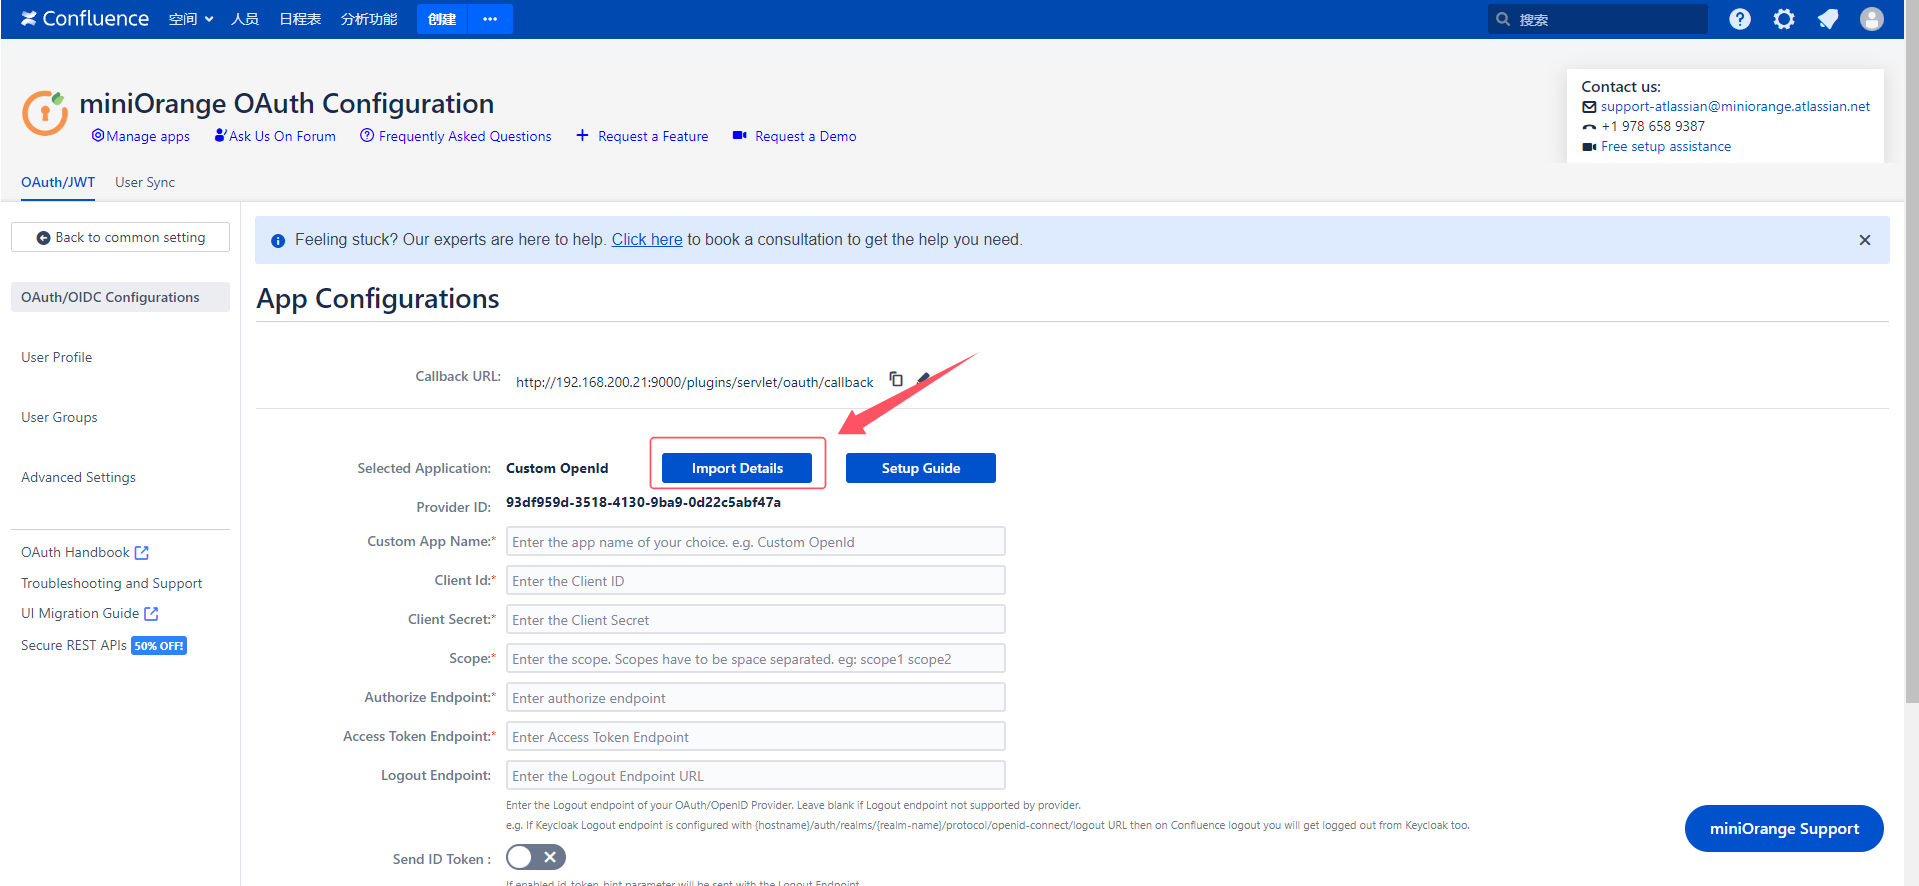
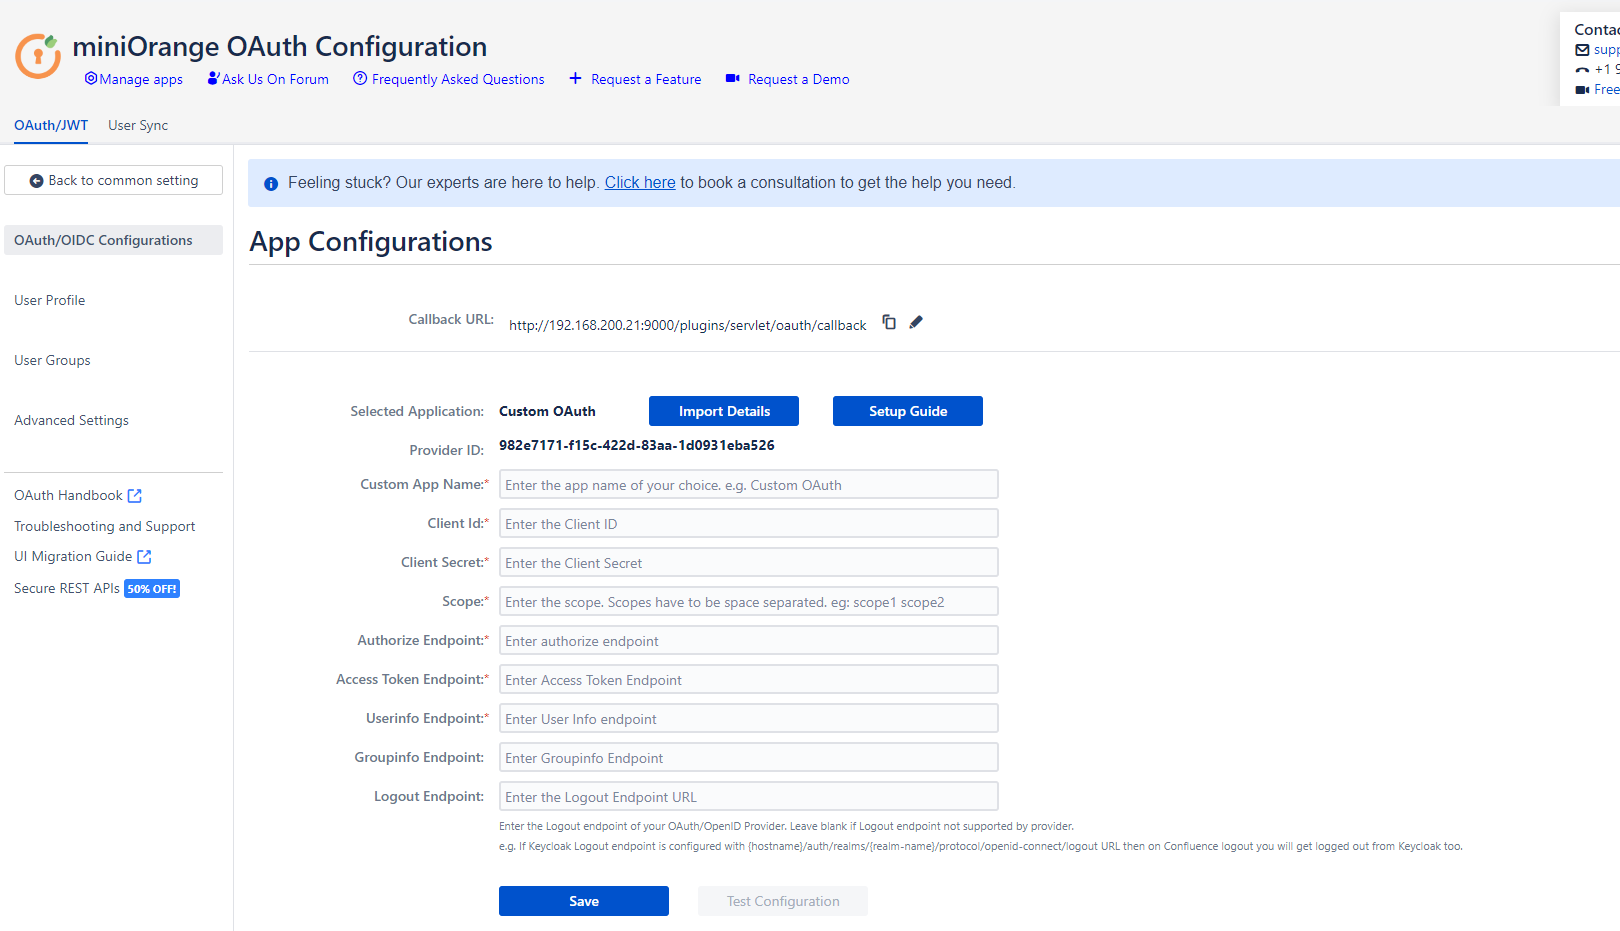
update：更新SSO登录相关文档

diff --git a/deploy/sso_example/confluence.md b/deploy/sso_example/confluence.md
@@ -16,19 +16,23 @@
 3. **应用配置**：登录到Confluence并点击右上角齿轮进入【管理应用】，点击左侧的【miniOrange OAuth/OIDC SSO】进入OIDC配置。
    点击【Add New App】按钮创建一个身份提供商，如下图所示：
    ![img.png](img/confluence-config1.jpg)
-   选择【Custom OIDC】创建一个自定义OIDC应用，如下图所示：
+   选择【Custom OAuth】创建一个自定义OAuth应用，如下图所示：
    ![img.png](img/confluence-config2.jpg)
-   点击【Import Details】，将OIDC的配置信息导入到下面的表单中，如下图所示：
+   将OAuth的配置信息填到下面的表单中，如下图所示：
    ![img.png](img/confluence-config3.jpg)
-   在打开的表单中，Well-Known Endpoint地址为平台的：`<protocol>://<address>[:<port>]/.well-known/openid-configuration`。导入成功后还需要填写应用的`Client Id`和`Client Secret`，这两项配置从平台的站点详情中获取。
+   * Custom App Name：可以自定义，用于显示在在Confluence的登录页
+   * Client Id：在平台站点详情中获取
+   * Client Secret：在平台站点详情中获取
+   * Scope：`openid`
+   * Authorization Endpoint：`<protocol>://<address>[:<port>]/login`
+   * Access Token Endpoint：`<protocol>://<address>[:<port>]/api/v1/sso/oauth/token`
+   * User Info Endpoint：`<protocol>://<address>[:<port>]/api/v1/sso/oauth/userinfo`  
    配置完成后点击【Save】保存即可。
-   > **提示**：
-   > * 在此页面显示了Jira正确的`Callback URL`，可以将此地址复制到平台的站点配置中覆盖之前的回调地址，以确保平台配置正确。
-   > * 表单中`Custom App Name`可以自定义，用于显示在在Jira的登录页。
-4. **用户配置**：接上步，点击左侧的【User Profile】，需要进行用户属于配置，按如下图所示：
+   > **提示**：在此页面显示了Confluence正确的`Callback URL`，可以将此地址复制到平台的站点配置中覆盖之前的回调地址，以确保平台配置正确。
+5. **用户配置**：接上步，点击左侧的【User Profile】，需要进行用户属于配置，按如下图所示：
    ![img.png](img/confluence-config5.jpg)
     * Username Attribute：`username`
     * Email Attribute：`email`
     * Full Name Attribute：`name`
-5. **高级设置**：接上步，点击左侧的【Advanced Settings】找到`Send Parameters in Token Endpoint`，将值更改为`Http Body`，如下图所示：
+6. **高级设置**：接上步，点击左侧的【Advanced Settings】找到`Send Parameters in Token Endpoint`，将值更改为`Http Body`，如下图所示：
    ![img.png](img/confluence-config4.jpg)

diff --git a/deploy/README.md b/deploy/README.md
@@ -12,8 +12,8 @@
 | Zabbix      | SAML2       | [参考文档](https://github.com/yuyan075500/ops-api/blob/main/deploy/sso_example/zabbix.md "参考文档")            |
 | 华为云       | SAML2       | [参考文档](https://github.com/yuyan075500/ops-api/blob/main/deploy/sso_example/huawei_cloud.md "参考文档")      |
 | JumpServer  | OAuth2.0    | [参考文档](https://github.com/yuyan075500/ops-api/blob/main/deploy/sso_example/jumpserver.md "参考文档")        |
-| Jira        | OIDC        | [参考文档](https://github.com/yuyan075500/ops-api/blob/main/deploy/sso_example/jira.md "参考文档")              |
-| Confluence  | OIDC        | [参考文档](https://github.com/yuyan075500/ops-api/blob/main/deploy/sso_example/confluence.md "参考文档")        |
+| Jira        | OAuth2.0    | [参考文档](https://github.com/yuyan075500/ops-api/blob/main/deploy/sso_example/jira.md "参考文档")              |
+| Confluence  | OAuth2.0    | [参考文档](https://github.com/yuyan075500/ops-api/blob/main/deploy/sso_example/confluence.md "参考文档")        |
 | KubePi      | SAML2       | 未完成      |
 | 阿里云       | SAML2       | [参考文档](https://github.com/yuyan075500/ops-api/blob/main/deploy/sso_example/aliyun.md "参考文档")            |
 | GitLab      | CAS3.0      | 未完成      |
